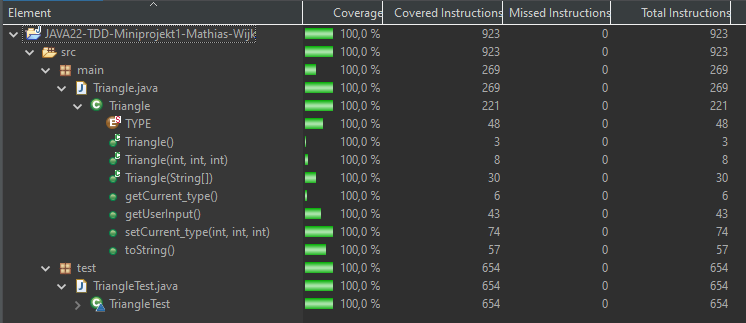
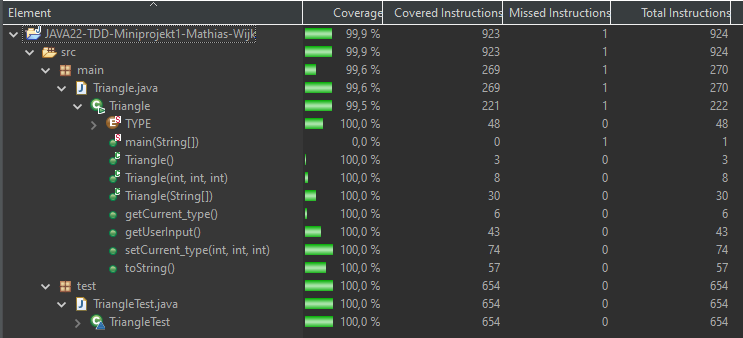
Readme update, og code, test class cleaned

diff --git a/src/main/Triangle.java b/src/main/Triangle.java
@@ -4,9 +4,10 @@ import java.util.Scanner;
 
 /**
  * 
- * @author lukas kurasinski Program returns the name of a triangle, based on the
- *         input. The input are 3 length, describing 3 sides of a triangle,
- *         Sides can be set via constructors or by a method
+ * @author lukas kurasinski
+ *Program returns the name of a triangle, based on the input.
+ *The input are 3 length, describing 3 sides of a triangle,
+ *Sides can be set via constructors or by a method
  */
 public class Triangle {
 	public static enum TYPE {
@@ -24,8 +25,9 @@ public class Triangle {
 
 	public Triangle(int a, int b, int c) {
 		this.setCurrent_type(a, b, c);
-	}
 
+	}
+	
 	public Triangle(String[] in) {
 		if (in.length == 3) {
 			try {
@@ -38,12 +40,11 @@ public class Triangle {
 		}
 	}
 
-	public Triangle() {
-	}
+	public Triangle() {}
 
-	// used with empty constructor
+	//used with empty constructor
 	public void getUserInput() {
-		System.out.println("Enter the 3 triangle sides as int, separated by coma ',' \nEx. 1,2,3");
+		System.out.println("Enter the 3 triangle sides as int, separated by coma ',' \n Ex. 1,2,3");
 		Scanner scnr = new Scanner(System.in);
 		String[] in = scnr.nextLine().split(",");
 		scnr.close();
@@ -59,10 +60,12 @@ public class Triangle {
 		}
 	}
 
+
+
 	public void setCurrent_type(int a, int b, int c) {
 		this.a = a;
 		this.b = b;
-		this.c = c; 
+		this.c = c;
 		// not a triangle if atleast one side <=0 or
 		// sum of any two sides <= length of the third side
 		if (a <= 0 || b <= 0 || c <= 0) {
@@ -82,26 +85,25 @@ public class Triangle {
 		this.toString();
 		return current_type;
 	}
- 
+
 	public String toString() {
 		String temp = "";
 		if (this.current_type == null) {
-			temp = "" + this.a + ", " + this.b + ", " + this.c + ", This is not a triangle"; // Not a triangle
+			temp = "" + this.a + ", " + this.b + ", " + this.c + ", This is not a triangle";
 		} else if (this.current_type == TYPE.EQUILATERAL) {
-			temp = "" + this.a + ", " + this.b + ", " + this.c + ", This is a Equilateral triangle"; // All sides the same
+			temp = "" + this.a + ", " + this.b + ", " + this.c + ", This is a Equilateral triangle";
 		} else if (this.current_type == TYPE.SCALENE) {
-			temp = "" + this.a + ", " + this.b + ", " + this.c + ", This is a Scalene triangle"; // No side the same
+			temp = "" + this.a + ", " + this.b + ", " + this.c + ", This is a Scalene triangle";
 		} else if (this.current_type == TYPE.ISOSCELES) {
-			temp = "" + this.a + ", " + this.b + ", " + this.c + ", This is a Isosceles triangle"; // Two side the same
+			temp = "" + this.a + ", " + this.b + ", " + this.c + ", This is a Isosceles triangle";
 		}
 		System.out.println(temp);
 		return temp;
 	}
-/*-
+
 	public static void main(String[] args) {
-			Triangle triangle = new Triangle();
-			triangle.getUserInput();
-			triangle.getCurrent_type();
+//			Triangle triangle = new Triangle();
+//			triangle.getUserInput();
+//			triangle.getCurrent_type();
 	}
-	*/
 }

diff --git a/src/test/TriangleTest.java b/src/test/TriangleTest.java
@@ -2,8 +2,6 @@ package test;
 
 import static org.junit.jupiter.api.Assertions.*;
 
-import java.util.Arrays;
-
 import java.io.ByteArrayInputStream;
 
 import org.junit.jupiter.api.DisplayName;
@@ -13,14 +11,7 @@ import main.Triangle;
 import main.Triangle.TYPE;
 
 class TriangleTest {
-	/*-
-	Triangle triangle;
 	
-	@BeforeAll
-	void beforeAll() {
-		//triangle = new Triangle();
-	}
-	*/
 	String[] noTriangleString1 = { "0", "2", "3" };
 	String[] noTriangleString2 = { "2", "0", "3" };
 	String[] noTriangleString3 = { "4", "2", "0" };
@@ -281,7 +272,7 @@ class TriangleTest {
 	}
 
 	@Test
-	@DisplayName("Test toString if Scalene. Constructor")
+	@DisplayName("Test toString if Scalene. Constructor values")
 	void toStringConstructorCheckScalene() {
 		Triangle triangle = new Triangle(4, 2, 3);
 		String result = triangle.toString();
@@ -289,7 +280,7 @@ class TriangleTest {
 	}
 
 	@Test
-	@DisplayName("Test toString if Isosceles. Constructor")
+	@DisplayName("Test toString if Isosceles. Constructor values")
 	void toStringConstructorCheckIsosceles() {
 		Triangle triangle = new Triangle(3, 2, 3);
 		String result = triangle.toString();
@@ -297,7 +288,7 @@ class TriangleTest {
 	}
 
 	@Test
-	@DisplayName("Test toString if Equilateral. Constructor")
+	@DisplayName("Test toString if Equilateral. Constructor values")
 	void toStringConstructorCheckEquilateral() {
 		Triangle triangle = new Triangle(3, 3, 3);
 		String result = triangle.toString();

diff --git a/README.md b/README.md
@@ -1,21 +1,24 @@
 # JAVA22-TDD-Miniprojekt1-Mathias-Wijk
 
-I början var jag osäker på hur jag skulle skriva mina tester men efter kollat igenom dem tester vi redan har skrivit kom jag på hur ska ska skriva testerna. Jag började först med toString där man skickar in en string array och testade alla möjliga kombinationer som jag kunde tänka mig. 
+I början var jag osäker på hur jag skulle skriva mina tester men efter kollat igenom de tester vi redan har skrivit, kom jag på hur ska ska skriva testerna. Jag började först med toString där man skickar in en string array och testade alla möjliga kombinationer som jag kunde tänka mig.
+ 
 Jag hade kunna göra sammat tester på getCurrent_type men eftersom att det blir samma test som ska skrivas igen det inte är nödvändigt i detta exempel. 
-När jag också gjorde tester så att nästan alla branches är täckta. 
-Ett problem jag hade var också user input(scanner) i konsolen, men jag hittade en bra lösning som sätter ett värde i scannern/konsolen så att man inte behöver skriva i konsolen på varje test som använde konsolen.
+
+Jag har också gjort tester så att nästan alla branches är täckta. Jag har försökt täcka alla branches men det är två branches jag inte hittar.
+
+Ett problem jag hade var user input(scanner) i konsolen, men jag hittade en bra lösning som sätter ett värde i scannern/konsolen så att man inte behöver skriva i konsolen på varje test som använde konsolen.
 Här är ett exempel på ett sådant test:
 ```java
 void getUserInput_toStringCheckNotTriangle1() {
-		String input = "0,2,3";
-		ByteArrayInputStream inputStream = new ByteArrayInputStream(input.getBytes());
-		System.setIn(inputStream);
-		Triangle triangle = new Triangle();
-		triangle.getUserInput();
-		String result = triangle.toString();
-		assertEquals("0, 2, 3, This is not a triangle", result);
-		System.setIn(System.in);
-	}
+	String input = "0,2,3";
+	ByteArrayInputStream inputStream = new ByteArrayInputStream(input.getBytes());
+	System.setIn(inputStream);
+	Triangle triangle = new Triangle();
+	triangle.getUserInput();
+	String result = triangle.toString();
+	assertEquals("0, 2, 3, This is not a triangle", result);
+	System.setIn(System.in);
+}
 ```
 
 ![Screenshot](tddmp1.png)
